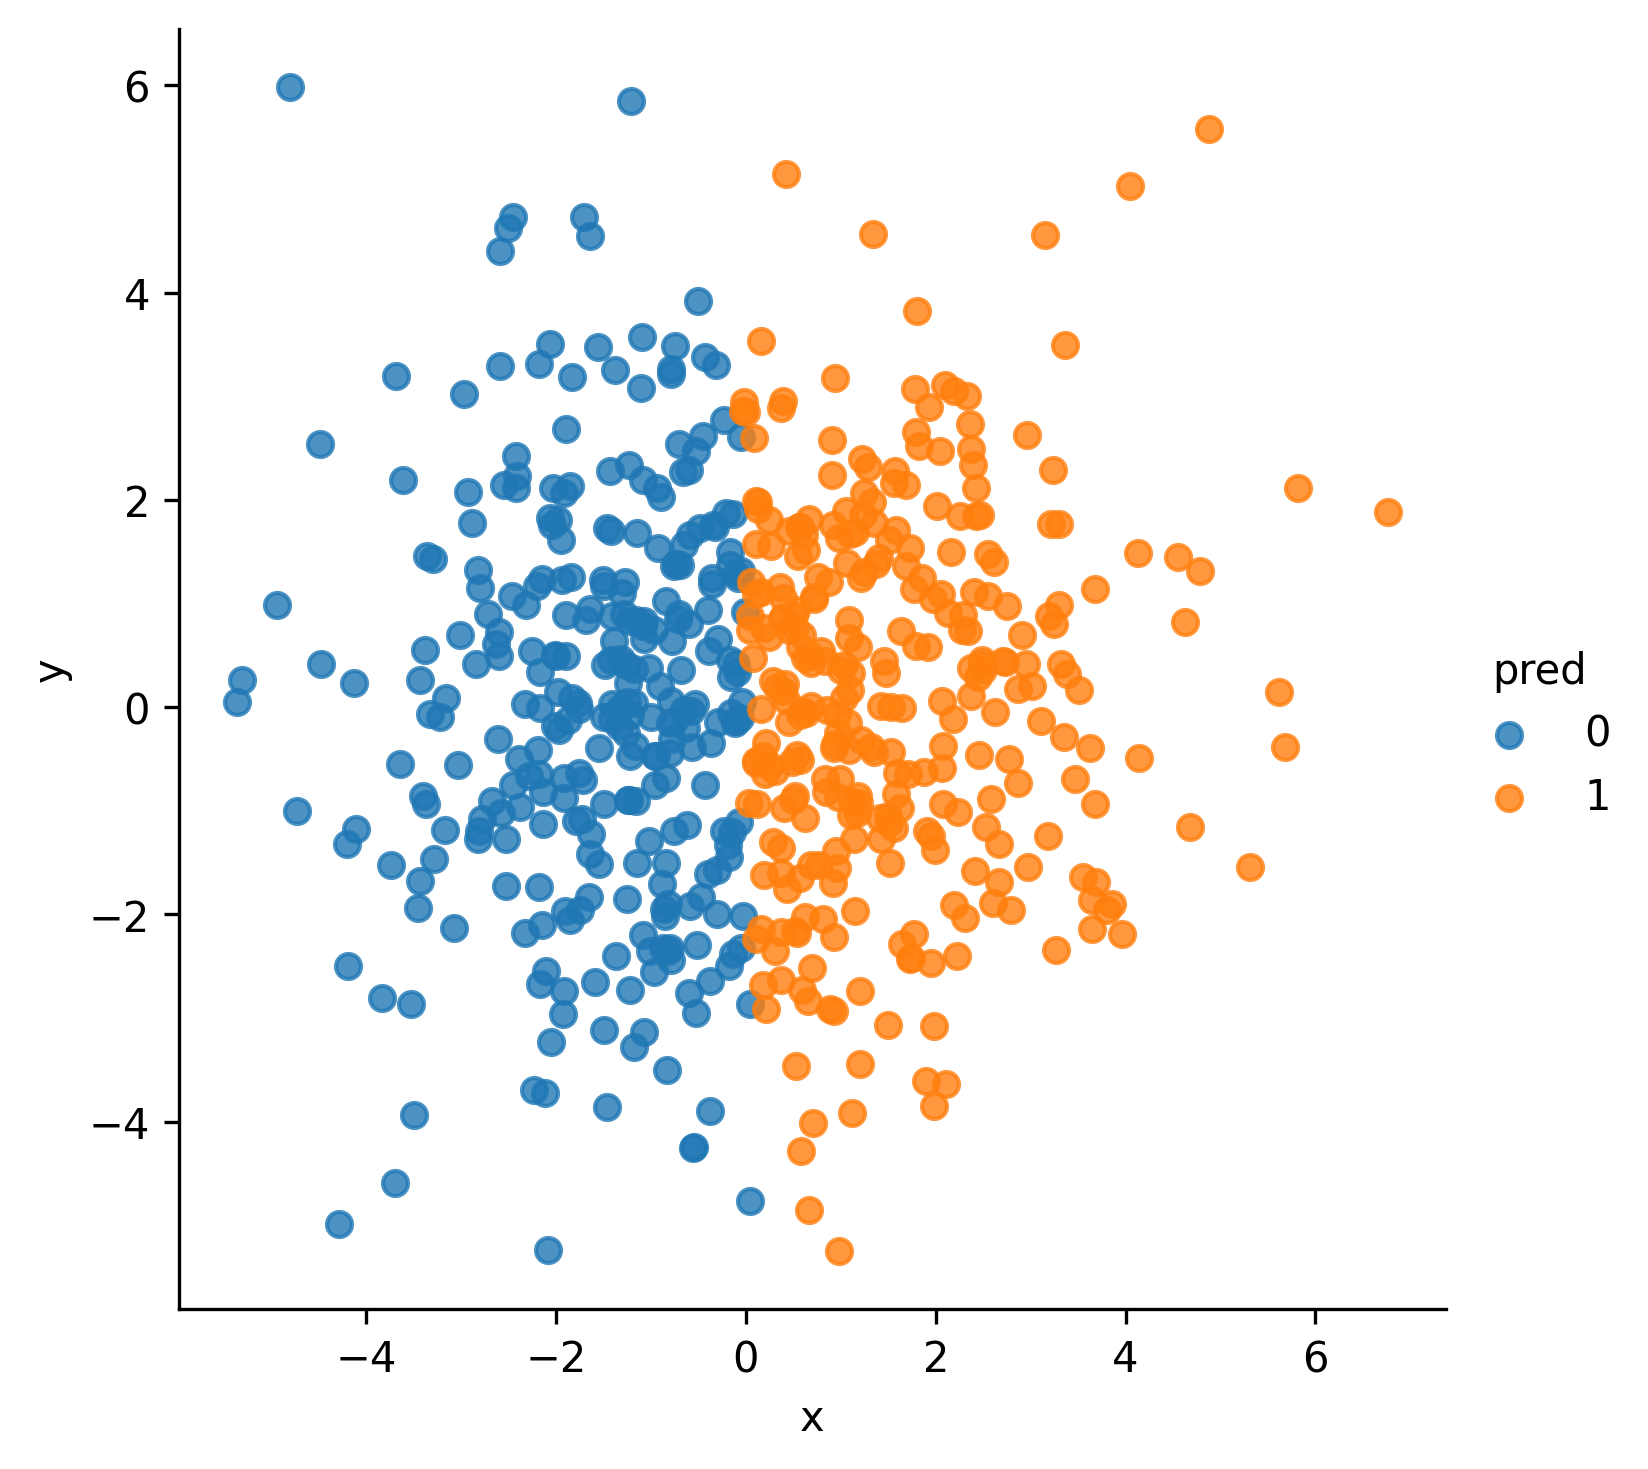
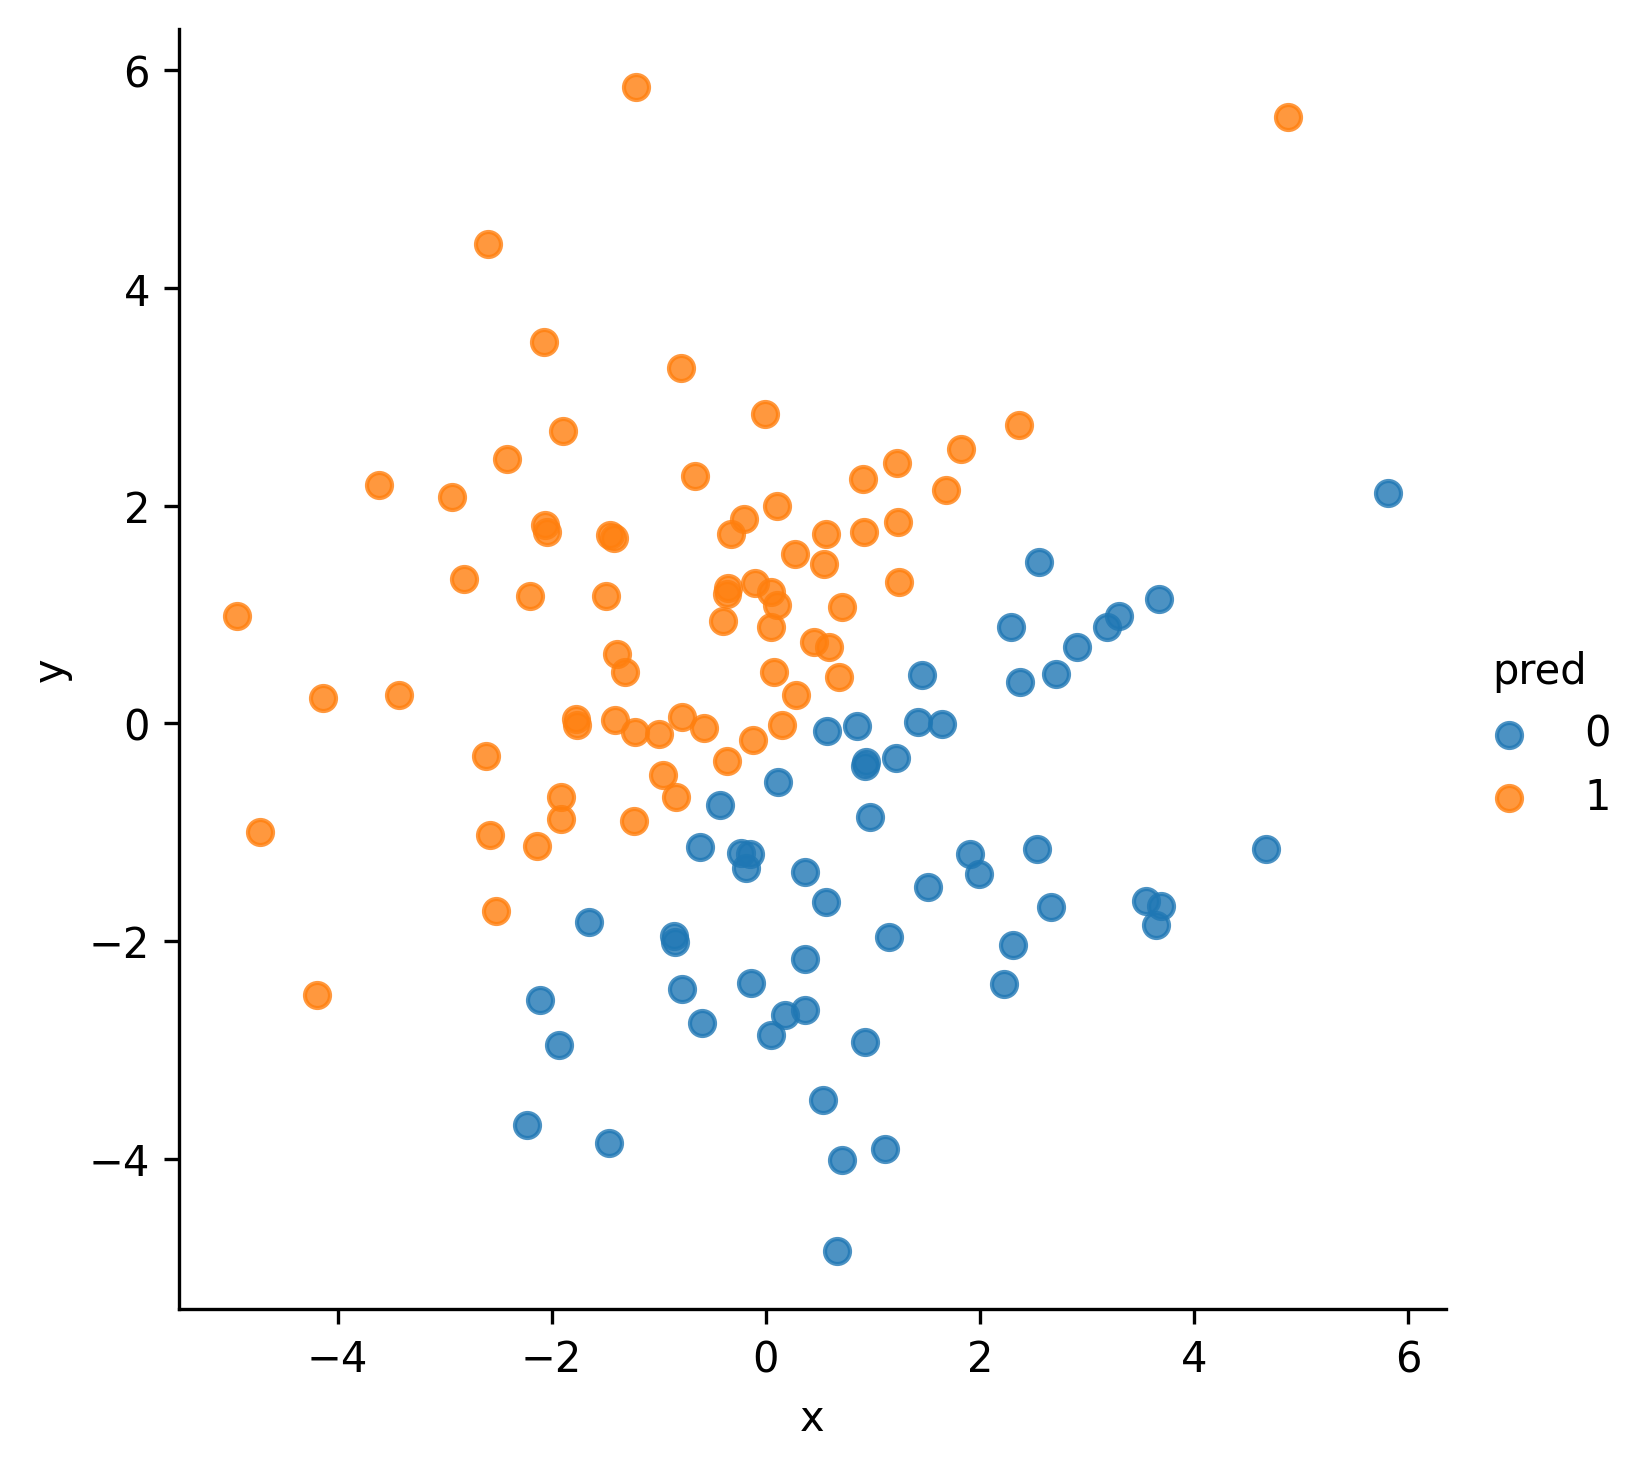
Mahalanobis with 2 dimensions

diff --git a/.ipynb_checkpoints/train-checkpoint.py b/.ipynb_checkpoints/train-checkpoint.py
@@ -33,6 +33,9 @@ import shap
 import sklearn
 from sklearn.model_selection import train_test_split
 
+from sklearn.covariance import EmpiricalCovariance
+from sklearn.covariance import MinCovDet
+
 def load_data(config):
     print("Loading dataset")
 
@@ -112,6 +115,7 @@ def train(config):
                 recon_x, mean, log_var, z = vae(x)
             
             # Z, mean, and log_var all have size of ([batch_size, hidden size])
+            # print(z.shape)
             
             reconx = recon_x
              
@@ -140,13 +144,33 @@ def train(config):
                     
                     # print(newMean.shape)
                     # newMean has shape of (8,2)
-
+                    
+                    print(newZ.shape)
+                    
+                    cov = MinCovDet().fit(newZ[:,:])
+                    mahalanobis = cov.mahalanobis(newZ[:,:])
+                    
+                    print(type(mahalanobis))
+                    print(mahalanobis.shape)
+                    print(mahalanobis)
+                    
+                    colors = [plt.cm.jet(float(i)/max(mahalanobis)) for i in mahalanobis]
+                    fig = plt.figure(figsize=(8,6))
+                    with plt.style.context(('ggplot')):
+                        plt.scatter(newZ[:,0], newZ[:,1], c=colors, edgecolors='k', s=60)
+                        plt.xlabel('PC1')
+                        plt.ylabel('PC2')
+                        plt.title('Outlier Color Coding')
+                    fig.savefig('mahalanobis.png')
+                    print("Plot done")
+                    
                     for i, yi in enumerate(y):
                         id = len(tracker_epoch)
                         tracker_epoch[id]['x'] = newZ[i, 0].item()
                         tracker_epoch[id]['y'] = newZ[i, 1].item()
                         tracker_epoch[id]['label'] = yi.item()
                     # print(len(tracker_epoch))
+                    break
         
         if args.tune:
             session.report(
@@ -177,33 +201,36 @@ def train(config):
             
     # END OF EPOCH LOOP
     
-    background = None
-    train = None
-    testPred = None
-    for iteration, (x, y, sl, m) in enumerate(data_loader):
-        background = x[:100]
-        train = x
-        break
-    for iteration, (x, y, sl, m) in enumerate(data_loader_test):
-        testPred = x
-        break
-    print(type(reconx))
-    print(reconx.shape)
-    print(type(train))
-    print(train.shape)
-    reconx = reconx.detach().numpy()
-    train = train.detach().numpy()
-    print(type(reconx))
-    print(reconx.shape)
-    print(type(train))
-    print(train.shape)
-    explainer = shap.KernelExplainer(reconx, train)
-    print("Explainer complete")
     
-    shapVals = explainer.shap_values(testPred)
-    shap.initjs()
-    # shap.force_plot(explainer.expected_value[0], shapVals[0][0])
-    shap.force_plot(explainer.expected_value[0], shapVals[0][0,:], testPred.iloc[0,:], matplotlib=True, show=False).savefig('test.png')
+
+
+#     background = None
+#     train = None
+#     testPred = None
+#     for iteration, (x, y, sl, m) in enumerate(data_loader):
+#         background = x[:100]
+#         train = x
+#         break
+#     for iteration, (x, y, sl, m) in enumerate(data_loader_test):
+#         testPred = x
+#         break
+#     print(type(reconx))
+#     print(reconx.shape)
+#     print(type(train))
+#     print(train.shape)
+#     reconx = reconx.detach().numpy()
+#     train = train.detach().numpy()
+#     print(type(reconx))
+#     print(reconx.shape)
+#     print(type(train))
+#     print(train.shape)
+#     explainer = shap.KernelExplainer(reconx, train)
+#     print("Explainer complete")
+    
+#     shapVals = explainer.shap_values(testPred)
+#     shap.initjs()
+#     # shap.force_plot(explainer.expected_value[0], shapVals[0][0])
+#     shap.force_plot(explainer.expected_value[0], shapVals[0][0,:], testPred.iloc[0,:], matplotlib=True, show=False).savefig('test.png')
 
 
 # BELOW IS EXAMPLE OF KERNEL SHAP

diff --git a/train.py b/train.py
@@ -33,6 +33,9 @@ import shap
 import sklearn
 from sklearn.model_selection import train_test_split
 
+from sklearn.covariance import EmpiricalCovariance
+from sklearn.covariance import MinCovDet
+
 def load_data(config):
     print("Loading dataset")
 
@@ -112,6 +115,7 @@ def train(config):
                 recon_x, mean, log_var, z = vae(x)
             
             # Z, mean, and log_var all have size of ([batch_size, hidden size])
+            # print(z.shape)
             
             reconx = recon_x
              
@@ -140,13 +144,33 @@ def train(config):
                     
                     # print(newMean.shape)
                     # newMean has shape of (8,2)
-
+                    
+                    print(newZ.shape)
+                    
+                    cov = MinCovDet().fit(newZ[:,:])
+                    mahalanobis = cov.mahalanobis(newZ[:,:])
+                    
+                    print(type(mahalanobis))
+                    print(mahalanobis.shape)
+                    print(mahalanobis)
+                    
+                    colors = [plt.cm.jet(float(i)/max(mahalanobis)) for i in mahalanobis]
+                    fig = plt.figure(figsize=(8,6))
+                    with plt.style.context(('ggplot')):
+                        plt.scatter(newZ[:,0], newZ[:,1], c=colors, edgecolors='k', s=60)
+                        plt.xlabel('PC1')
+                        plt.ylabel('PC2')
+                        plt.title('Outlier Color Coding')
+                    fig.savefig('mahalanobis.png')
+                    print("Plot done")
+                    
                     for i, yi in enumerate(y):
                         id = len(tracker_epoch)
                         tracker_epoch[id]['x'] = newZ[i, 0].item()
                         tracker_epoch[id]['y'] = newZ[i, 1].item()
                         tracker_epoch[id]['label'] = yi.item()
                     # print(len(tracker_epoch))
+                    break
         
         if args.tune:
             session.report(
@@ -177,33 +201,36 @@ def train(config):
             
     # END OF EPOCH LOOP
     
-    background = None
-    train = None
-    testPred = None
-    for iteration, (x, y, sl, m) in enumerate(data_loader):
-        background = x[:100]
-        train = x
-        break
-    for iteration, (x, y, sl, m) in enumerate(data_loader_test):
-        testPred = x
-        break
-    print(type(reconx))
-    print(reconx.shape)
-    print(type(train))
-    print(train.shape)
-    reconx = reconx.detach().numpy()
-    train = train.detach().numpy()
-    print(type(reconx))
-    print(reconx.shape)
-    print(type(train))
-    print(train.shape)
-    explainer = shap.KernelExplainer(reconx, train)
-    print("Explainer complete")
     
-    shapVals = explainer.shap_values(testPred)
-    shap.initjs()
-    # shap.force_plot(explainer.expected_value[0], shapVals[0][0])
-    shap.force_plot(explainer.expected_value[0], shapVals[0][0,:], testPred.iloc[0,:], matplotlib=True, show=False).savefig('test.png')
+
+
+#     background = None
+#     train = None
+#     testPred = None
+#     for iteration, (x, y, sl, m) in enumerate(data_loader):
+#         background = x[:100]
+#         train = x
+#         break
+#     for iteration, (x, y, sl, m) in enumerate(data_loader_test):
+#         testPred = x
+#         break
+#     print(type(reconx))
+#     print(reconx.shape)
+#     print(type(train))
+#     print(train.shape)
+#     reconx = reconx.detach().numpy()
+#     train = train.detach().numpy()
+#     print(type(reconx))
+#     print(reconx.shape)
+#     print(type(train))
+#     print(train.shape)
+#     explainer = shap.KernelExplainer(reconx, train)
+#     print("Explainer complete")
+    
+#     shapVals = explainer.shap_values(testPred)
+#     shap.initjs()
+#     # shap.force_plot(explainer.expected_value[0], shapVals[0][0])
+#     shap.force_plot(explainer.expected_value[0], shapVals[0][0,:], testPred.iloc[0,:], matplotlib=True, show=False).savefig('test.png')
 
 
 # BELOW IS EXAMPLE OF KERNEL SHAP
